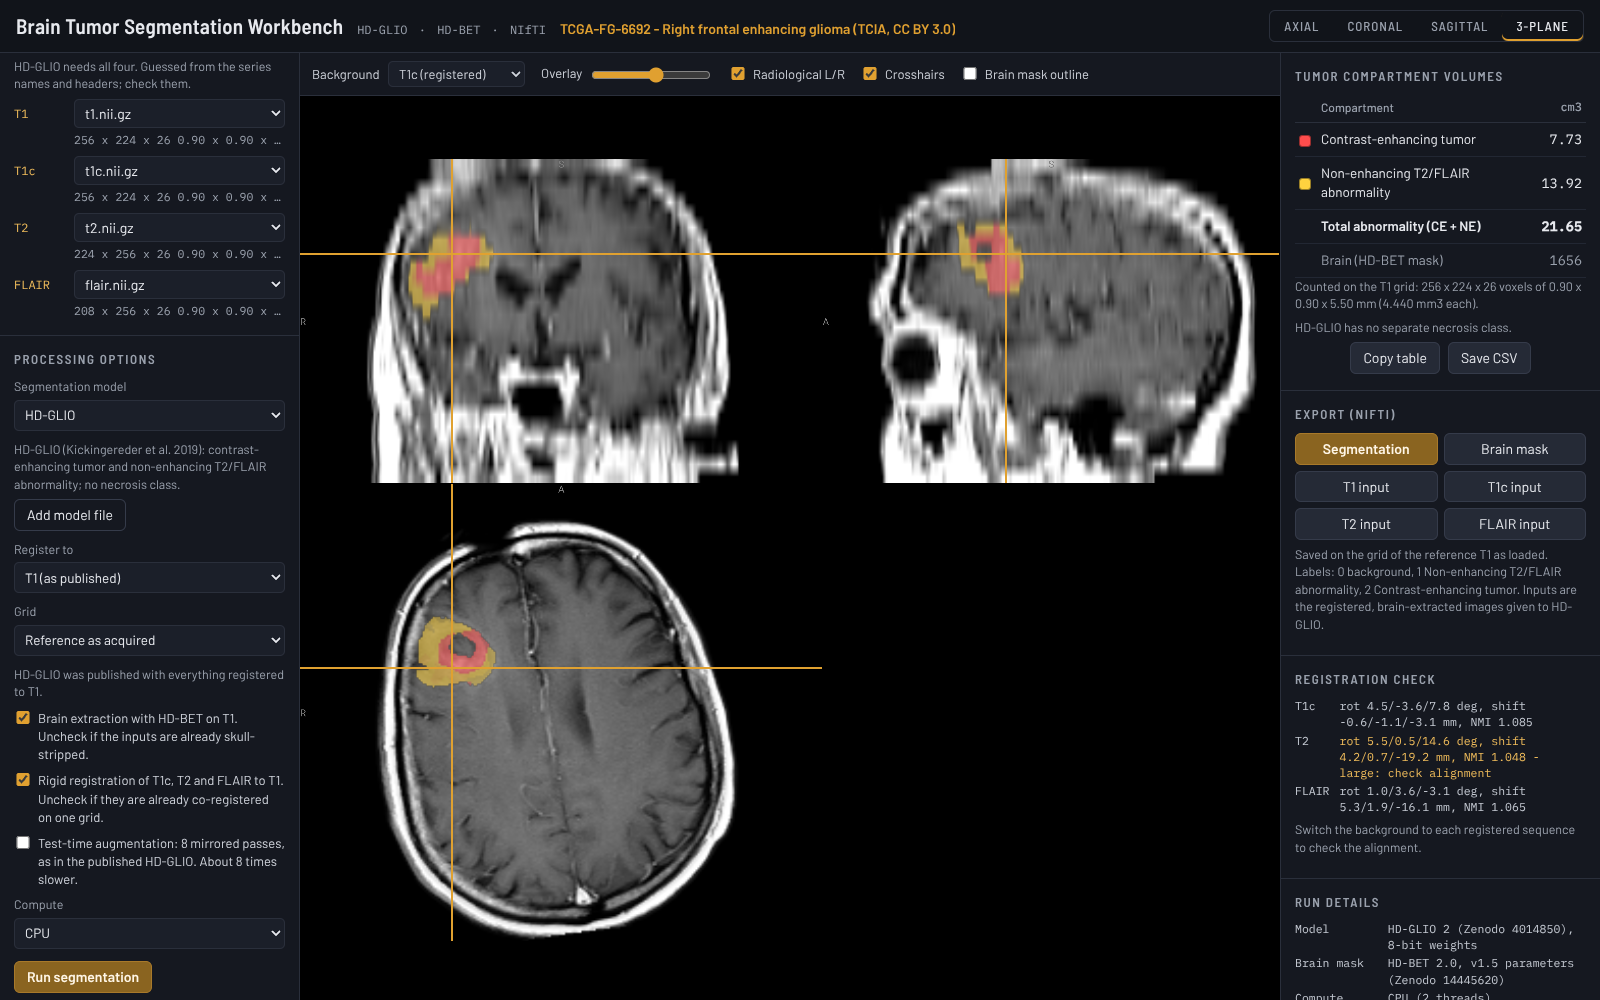
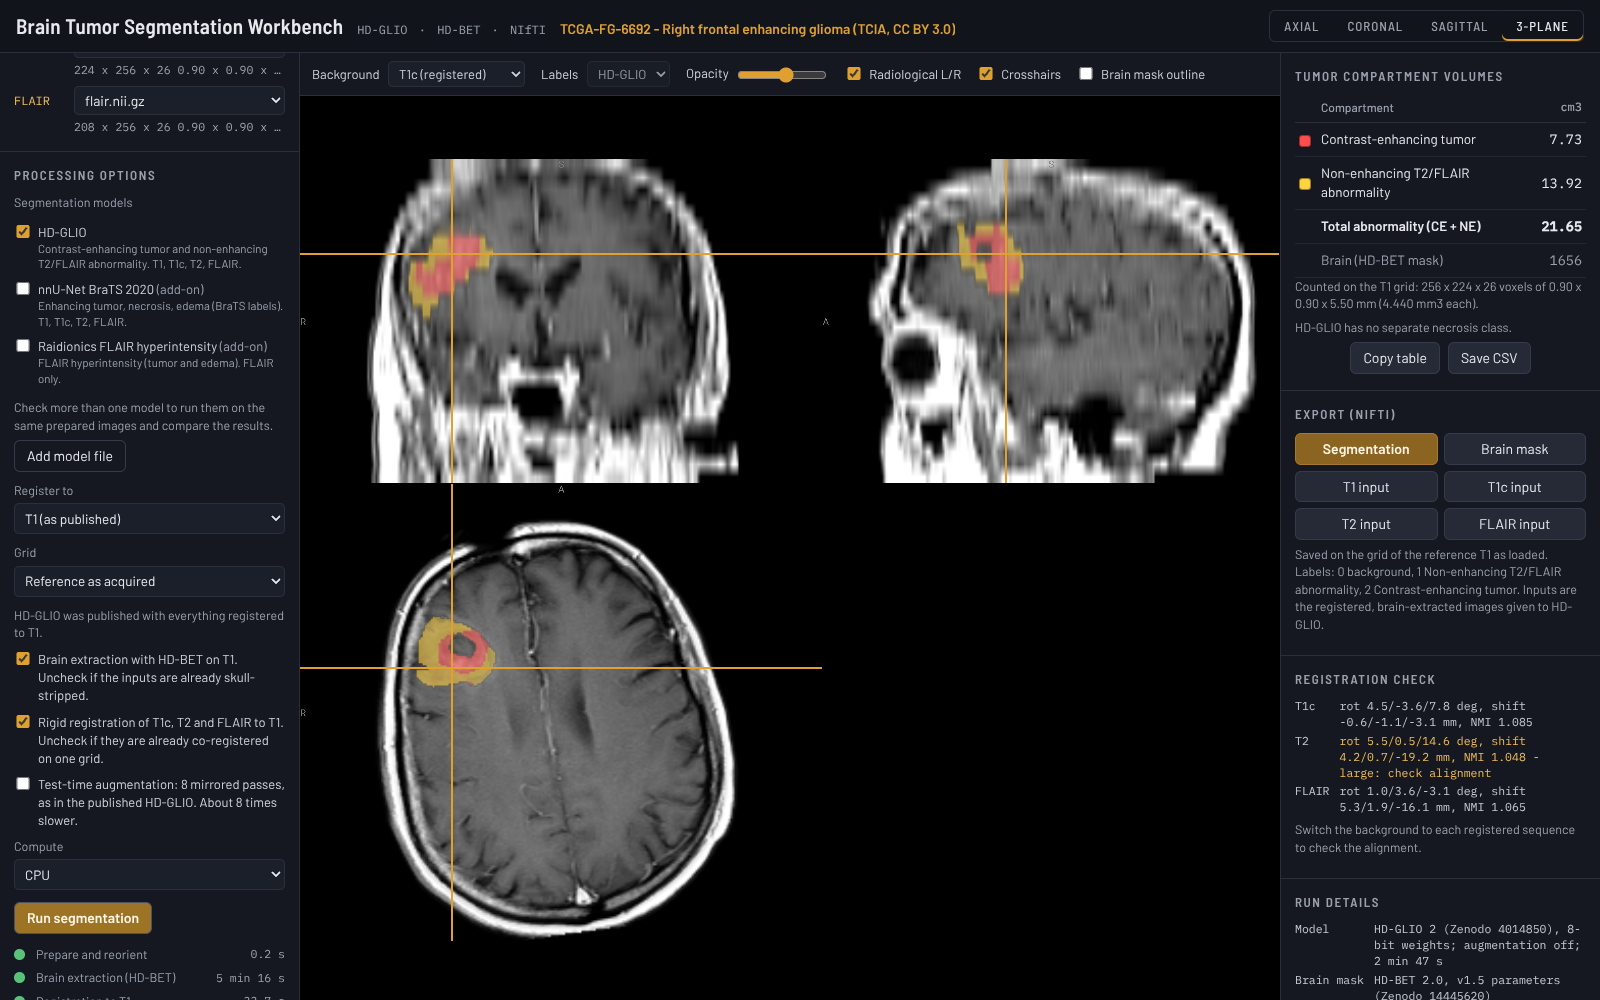
Update README screenshot to v1.3.0; screenshot script for the model checklist
Claude-Session: https://claude.ai/code/session_014mboSu1Pm8LjLyGybVZ62X

diff --git a/README.md b/README.md
@@ -12,7 +12,7 @@ same prepared images in one go and be compared, as volumes, Dice and an agreemen
 segmentations and the prepared inputs are saved as NIfTI. All processing happens on the computer
 it runs on.
 
-![Workbench (v1.1.1) running the TCGA-FG-6692 demo with HD-GLIO](docs/workbench.png)
+![Workbench (v1.3.0) running the TCGA-FG-6692 demo with HD-GLIO, both add-on models listed](docs/workbench.png)
 
 ## What it measures
 
@@ -99,7 +99,7 @@ admin rights are needed.
 
 **Add-on models.** To use an add-on model, download its `.btsmodel` file and put it in the same
 folder as the program (for example both in Downloads). It then appears under *Processing
-options > Segmentation model*. Alternatively open it with **Add model file** (for that session
+options > Segmentation models*. Alternatively open it with **Add model file** (for that session
 only). The add-ons are separate files because the program and the models together would exceed
 GitHub's 100 MB file limit. Each file is checked (format and checksum) before use.
 
